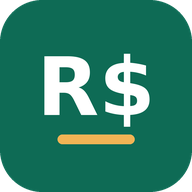
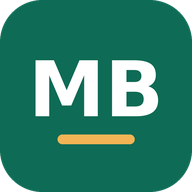
Novo nome: MB Controle

Changed region(s): [[0.1562, 0.25, 0.8438, 0.6875]]

diff --git a/app.js b/app.js
@@ -170,15 +170,15 @@ let toastTimer=null;
 function toast(msg){ let el=document.getElementById("toast"); if(!el){ el=document.createElement("div"); el.id="toast"; el.className="toast"; el.setAttribute("role","status"); document.body.appendChild(el); } el.textContent=msg; el.hidden=false; clearTimeout(toastTimer); toastTimer=setTimeout(()=>{el.hidden=true},4000); }
 
 function exportar(){
-  const blob=new Blob([JSON.stringify({app:"meu-caixa",versao:1,exportadoEm:new Date().toISOString(),config:state.config,months:state.months},null,2)],{type:"application/json"});
-  const a=document.createElement("a"); a.href=URL.createObjectURL(blob); a.download="meu-caixa-backup-"+new Date().toISOString().slice(0,10)+".json"; document.body.appendChild(a); a.click(); setTimeout(()=>{URL.revokeObjectURL(a.href);a.remove()},500);
+  const blob=new Blob([JSON.stringify({app:"mb-controle",versao:1,exportadoEm:new Date().toISOString(),config:state.config,months:state.months},null,2)],{type:"application/json"});
+  const a=document.createElement("a"); a.href=URL.createObjectURL(blob); a.download="mb-controle-backup-"+new Date().toISOString().slice(0,10)+".json"; document.body.appendChild(a); a.click(); setTimeout(()=>{URL.revokeObjectURL(a.href);a.remove()},500);
 }
 function importar(file){
   const r=new FileReader();
   r.onload=()=>{ try{ const d=JSON.parse(r.result); if(!d.config||!d.months) throw 0;
     state.config=normConfig(d.config); buildMeses(); save("config");
     for(const k in d.months){ state.months[k]=normMonth(d.months[k]); save(k); }
-    ui.importMsg="Backup importado."; render(); }catch(e){ ui.importMsg="Arquivo inválido. Use um backup exportado pelo Meu Caixa."; render(); } };
+    ui.importMsg="Backup importado."; render(); }catch(e){ ui.importMsg="Arquivo inválido. Use um backup exportado pelo MB Controle."; render(); } };
   r.readAsText(file);
 }
 
@@ -194,7 +194,7 @@ function render(){
 function header(){
   const t=(id,l)=>`<button role="tab" data-tab="${id}" aria-selected="${ui.tab===id}">${l}</button>`;
   const i=MESES.findIndex(x=>x.key===ui.month);
-  return `<div class="top"><div class="brand"><h1>Meu <span>Caixa</span></h1><span class="status ${statusCls}" id="status"><i></i>${esc(statusTxt)}</span></div><div class="topright">${botaoTema()}
+  return `<div class="top"><div class="brand"><h1>MB <span>Controle</span></h1><span class="status ${statusCls}" id="status"><i></i>${esc(statusTxt)}</span></div><div class="topright">${botaoTema()}
   ${mode==="login"?"":`<div class="tabs" role="tablist">${t("mes","Mês")}${t("ano","Visão geral")}${t("ajustes","Ajustes")}</div>`}
   ${authUser?`<div class="who">${authUser.photoURL?`<img src="${esc(authUser.photoURL)}" alt="" referrerpolicy="no-referrer">`:""}<span>${esc((authUser.displayName||authUser.email||"").split(" ")[0])}</span><button class="link" data-logout="1" type="button">Sair</button></div>`:""}</div></div>
   ${ui.tab==="mes"&&mode!=="login"?`<div class="months"><button class="arrow" data-nav="-1" aria-label="Mês anterior" ${i<=0?"disabled":""}>‹</button>

diff --git a/index.html b/index.html
@@ -3,14 +3,14 @@
 <head>
 <meta charset="utf-8">
 <meta name="viewport" content="width=device-width,initial-scale=1,viewport-fit=cover">
-<title>Meu Caixa</title>
+<title>MB Controle</title>
 <meta name="description" content="Controle de gastos pessoal: salário, recebimentos avulsos, despesas diárias, caixinha e visão geral.">
 <meta name="theme-color" content="#0E6B55">
 <link rel="manifest" href="manifest.webmanifest">
 <link rel="icon" href="icons/icon-192.png">
 <link rel="apple-touch-icon" href="icons/apple-touch-icon.png">
 <meta name="apple-mobile-web-app-capable" content="yes">
-<meta name="apple-mobile-web-app-title" content="Meu Caixa">
+<meta name="apple-mobile-web-app-title" content="MB Controle">
 <link rel="preconnect" href="https://fonts.googleapis.com">
 <link rel="stylesheet" href="https://fonts.googleapis.com/css2?family=Familjen+Grotesk:wght@500;600;700&family=Instrument+Sans:wght@400;500;600&display=swap">
 <link rel="stylesheet" href="style.css">
@@ -18,7 +18,7 @@
 </head>
 <body>
 <div class="wrap" id="app">
-  <div class="top"><div class="brand"><h1>Meu <span>Caixa</span></h1><span class="status" id="status"><i></i>Carregando…</span></div></div>
+  <div class="top"><div class="brand"><h1>MB <span>Controle</span></h1><span class="status" id="status"><i></i>Carregando…</span></div></div>
   <div class="empty-state">Carregando…</div>
 </div>
 <script src="firebase-config.js"></script>

diff --git a/sw.js b/sw.js
@@ -1,5 +1,5 @@
 // Service worker: deixa o app abrir mesmo sem internet.
-const CACHE = "meu-caixa-v2";
+const CACHE = "mb-controle-v3";
 const SHELL = ["./", "index.html", "style.css", "app.js", "firebase-config.js", "manifest.webmanifest",
   "icons/icon-192.png", "icons/icon-512.png", "icons/apple-touch-icon.png"];
 self.addEventListener("install", e => { e.waitUntil(caches.open(CACHE).then(c => c.addAll(SHELL)).then(() => self.skipWaiting())); });

diff --git a/README.md b/README.md
@@ -1,4 +1,4 @@
-# Meu Caixa — controle de gastos
+# MB Controle — controle de gastos
 
 App de controle de gastos pessoal, de setembro de 2026 em diante (dá para acrescentar meses em Ajustes):
 salário, recebimentos avulsos, despesas diárias por campo, caixinha (guardar/retirar), limites por campo,
@@ -12,13 +12,13 @@ celular, e dá para instalar como aplicativo na tela inicial.
 ## Passo 1 — Colocar o app no GitHub (GitHub Pages)
 
 1. Entre em **github.com** e clique em **New repository** (botão verde "New").
-2. Nome: `meu-caixa`. Deixe **Public** e clique em **Create repository**.
+2. Nome: `MB-Controle` (ou mantenha `Meu-Caixa`, se já criou). Deixe **Public** e clique em **Create repository**.
 3. Na página do repositório, clique em **uploading an existing file**.
 4. Arraste **todos os arquivos e a pasta `icons`** deste projeto (não a pasta de fora, o conteúdo dela)
    e clique em **Commit changes**.
 5. Vá em **Settings → Pages**. Em *Branch*, escolha **main** e **/ (root)** e clique em **Save**.
 6. Espere 1–2 minutos. O endereço do app será:
-   `https://SEU-USUARIO.github.io/meu-caixa/`
+   `https://SEU-USUARIO.github.io/NOME-DO-REPOSITORIO/`
 
 Nesse ponto o app já abre, em **modo local** (os dados ficam só naquele aparelho, sem login).
 Para cada pessoa ter a própria conta e sincronizar entre aparelhos, faça o passo 2.
@@ -26,14 +26,14 @@ Para cada pessoa ter a própria conta e sincronizar entre aparelhos, faça o pas
 ## Passo 2 — Criar o login e o banco de dados (Firebase, gratuito)
 
 1. Entre em **console.firebase.google.com** com sua conta Google e clique em **Criar um projeto**.
-   Nome: `meu-caixa`. Pode desativar o Google Analytics. Clique em **Criar projeto**.
+   Nome: `mb-controle`. Pode desativar o Google Analytics. Clique em **Criar projeto**.
 2. **Registrar o app web:** na tela inicial do projeto, clique no ícone **`</>`** (Web).
-   Apelido: `meu-caixa`. **Não** marque Firebase Hosting. Clique em **Registrar app**.
+   Apelido: `mb-controle`. **Não** marque Firebase Hosting. Clique em **Registrar app**.
    Vai aparecer um bloco `const firebaseConfig = { ... }`. **Copie os valores** de dentro das chaves.
 3. **Ativar o login com Google:** menu **Criação → Authentication → Vamos começar**.
    Em *Provedores de login*, clique em **Google → Ativar**, escolha seu e-mail de suporte e **Salvar**.
 4. **Autorizar o endereço do GitHub:** ainda em Authentication, vá em **Configurações → Domínios autorizados →
-   Adicionar domínio** e digite `SEU-USUARIO.github.io` (sem https e sem /meu-caixa).
+   Adicionar domínio** e digite `SEU-USUARIO.github.io` (sem https e sem o nome do repositório).
 5. **Criar o banco:** menu **Criação → Firestore Database → Criar banco de dados**.
    Local: **southamerica-east1 (São Paulo)**. Modo: **produção**. Clique em **Criar**.
 6. **Proteger os dados:** no Firestore, aba **Regras**. Apague tudo, cole o conteúdo do arquivo
@@ -48,9 +48,9 @@ Para cada pessoa ter a própria conta e sincronizar entre aparelhos, faça o pas
    ```js
    window.FIREBASE_CONFIG = {
      apiKey: "AIza...",
-     authDomain: "meu-caixa-xxxx.firebaseapp.com",
-     projectId: "meu-caixa-xxxx",
-     storageBucket: "meu-caixa-xxxx.appspot.com",
+     authDomain: "mb-controle-xxxx.firebaseapp.com",
+     projectId: "mb-controle-xxxx",
+     storageBucket: "mb-controle-xxxx.appspot.com",
      messagingSenderId: "123456789",
      appId: "1:123456789:web:abc123"
    };
@@ -62,7 +62,7 @@ Para cada pessoa ter a própria conta e sincronizar entre aparelhos, faça o pas
 
 ## Passo 4 — Usar e compartilhar
 
-- Mande o link `https://SEU-USUARIO.github.io/meu-caixa/` para quem quiser usar. Cada pessoa entra com
+- Mande o link `https://SEU-USUARIO.github.io/NOME-DO-REPOSITORIO/` para quem quiser usar. Cada pessoa entra com
   a própria conta Google e começa com a página dela vazia.
 - **Instalar no celular:** abra o link no Chrome (Android) → menu ⋮ → **Adicionar à tela inicial**.
   No iPhone: Safari → botão Compartilhar → **Adicionar à Tela de Início**.
